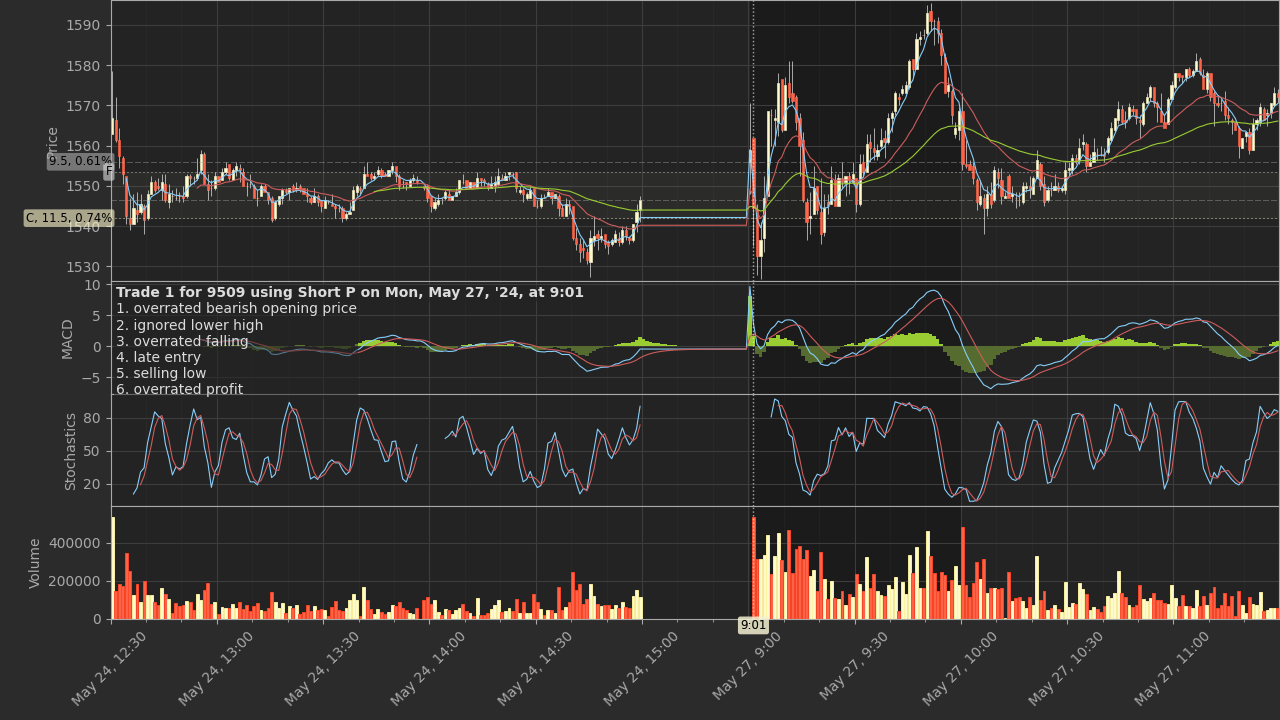
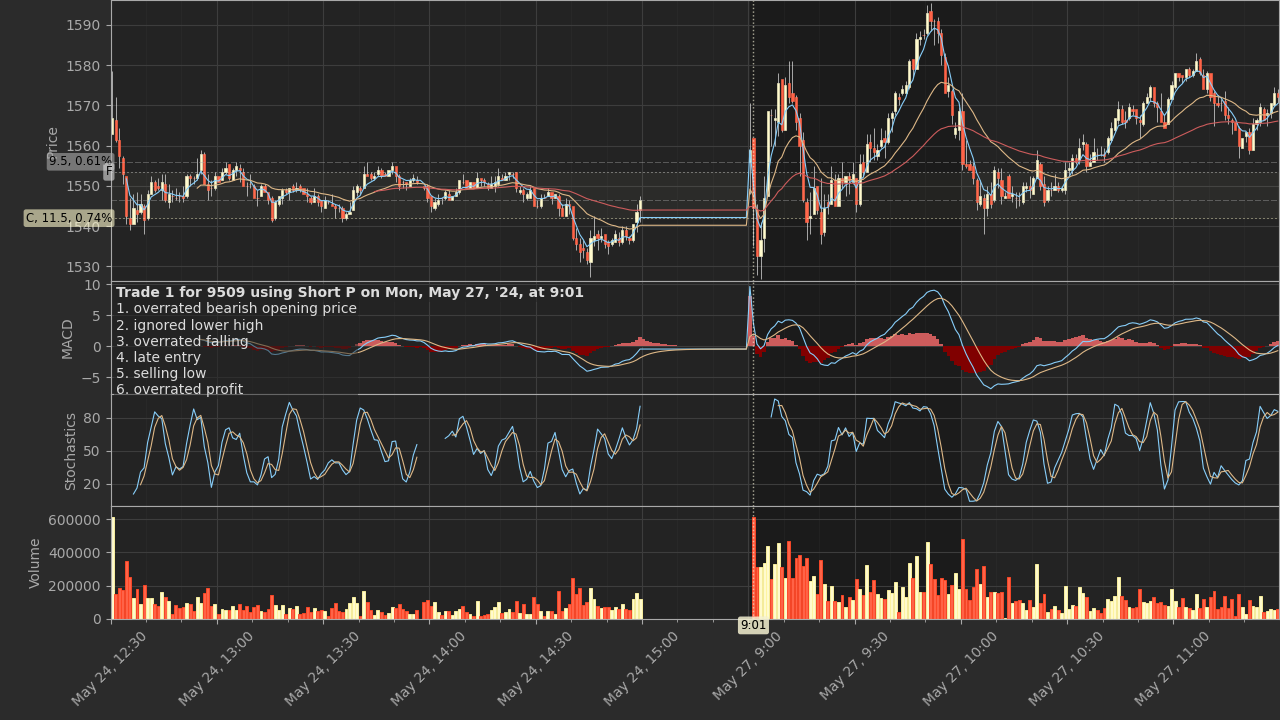
Modify amber

diff --git a/styles/amber.py b/styles/amber.py
@@ -17,9 +17,9 @@ style = {'style_name': 'amber',
                           'vcdopcod': False,
                           'alpha': 1.0},
          'mavcolors': ['lightskyblue',
+                       'burlywood',
                        'indianred',
-                       'yellowgreen',
-                       'darkolivegreen'],
+                       'maroon'],
          'y_on_right': False,
          'gridcolor': '#3d3d3d',
          'gridstyle': '-',
